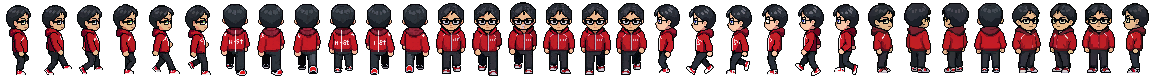
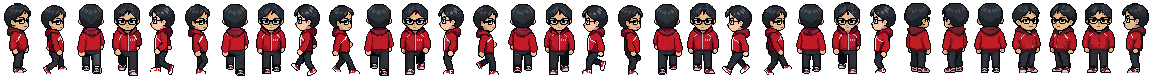
enemy can not move through wall

Changed region(s): [[0.0, 0.0256, 0.7799, 0.9744]]

diff --git a/core/src/main/java/hust/adventure/entities/enemies/Enemy.java b/core/src/main/java/hust/adventure/entities/enemies/Enemy.java
@@ -165,6 +165,9 @@ public class Enemy extends Character {
      */
     @Override
     public void setX(final float x) {
+        if (checkWallCollisions && collisionManager != null && !collisionManager.canMove(this, x, getY())) {
+            return;
+        }
         super.setX(x);
     }
 
@@ -175,6 +178,9 @@ public class Enemy extends Character {
      */
     @Override
     public void setY(final float y) {
+        if (checkWallCollisions && collisionManager != null && !collisionManager.canMove(this, getX(), y)) {
+            return;
+        }
         super.setY(y);
     }
 

diff --git a/docs/CONVENTIONS.md b/docs/CONVENTIONS.md
@@ -180,7 +180,7 @@ public class HUD {
 * **SRP Behavior Segregation**: `AIBehavior` (movement), `AttackBehavior` (attacks), and `DeathBehavior` (death logic) are injected via `BehaviorRegistry` into `Enemy`. `Enemy` does not shadow parent `Character.movementBehavior`.
 * **Decoupled Visual Overlays via Capability Interfaces**: Visual indicators or telegraph overlays for behavior logic must be decoupled from core entity models (e.g., `Enemy`). Expose behavioral overlay properties (such as coordinates, active flags, and timers) through domain capability interfaces (e.g., `TelegraphedBehavior` extending `AIBehavior`). The presentation layer (`GameRenderer`) can check for this capability interface on the active behavior to render overlays polymorphically without polluting the entity class or using concrete class casting.
 * **Mob Speed Control**: Mobs retrieve speed dynamically using `enemy.getSpeed()`. Do not store speed parameters in AI constructors.
-* **Movement Optimization (Wall Bypass)**: Mob behaviors like `SimpleSwarmBehavior` and `FleeBehavior` edit coordinates directly without passing through `CollisionManager.canMove()` to conserve CPU cycles.
+* **Mob Wall Collisions**: Mob coordinates are updated via `setX` and `setY`, which automatically perform wall collision checks using `CollisionManager.canMove()` (when `checkWallCollisions` is enabled) to prevent enemies from passing through terrain, ensuring unified and simple collision enforcement.
 * **Weapon Damage Output**: All weapon classes must calculate damage using `getEffectiveDamage()` instead of `getBaseDamage()` to automatically integrate player power multipliers and global multipliers.
 * **Zero Hardcoding in Debug Menu & Transitions**: Options are loaded dynamically. Spawn scripts must use literal string configuration IDs matching JSON configurations (e.g., `"null_pointer"`). Level behaviors must not hardcode target map paths or spawn coordinates for transitions; they must look up target `LevelConfig` objects by Level ID from the `LevelDataLoader` (Single Source of Truth).
 * **Decoupled Hitbox & Sprite**: `MapObject` separates visual sprite dimensions (`width`, `height`) and physical collision boundaries (`hitboxWidth`, `hitboxHeight`). Always use `getHitboxWidth()` and `getHitboxHeight()` for collision detection, movement boundaries, and spatial hashing, keeping `width` and `height` solely for sprite drawing.

diff --git a/docs/TECH_STACK.md b/docs/TECH_STACK.md
@@ -97,7 +97,7 @@ Technical specs, library versions, build structures, and architecture of Hust Ad
     * *Decoupled Hitbox & Sprite*: Visual sprite dimensions (`width`, `height`) are decoupled from physical hitbox/collision boundaries (`hitboxWidth`, `hitboxHeight`). Collision detection, boundary checks, and spatial grid hashing use hitbox sizes, allowing fine-grained collision boundaries (e.g. 32x32 player hitbox on 50x50 sprite). Defaults to sprite size if hitbox size is not specified.
     * *Static vs Dynamic Grid*: `staticGrid` (walls, hashed once during map load) is separate from `dynamicGrid` (moving entities, rebuilt every frame) to optimize performance.
     * *Zero Allocation*: Grid cell arrays (`Array<Collider>`) are pooled.
-    * *Wall Bypass*: All Enemy entities now bypass `CollisionManager.canMove()` wall collision checks during position updates (`setX`/`setY`) to freely pass through terrain, preventing getting stuck and optimizing navigation. Group behaviors (`SimpleSwarmBehavior`, `FleeBehavior`) also benefit from this zero-collision logic.
+    * *Wall Collision Checks*: All Enemy entities respect `CollisionManager.canMove()` wall collision checks during position updates (`setX`/`setY`) to prevent walking through terrain/obstacles. The `checkWallCollisions` flag allows selectively bypassing checks during spawn initialization or boundary clamping.
   * **Tiled Map Loading (`WorldManager`)**:
     * Finds collision layers via map properties (`collisionLayer`) or layer properties (`collision`/`isCollision`). Fallback order: `"collision"`, `"Border"`, `"Object Layer 1"`.
     * Classifies map layers (background vs foreground) via `classifyLayers()`.

diff --git a/docs/PROJECT_MAP.md b/docs/PROJECT_MAP.md
@@ -115,7 +115,7 @@ sequenceDiagram
 
 ### Key Loop Details:
 1. **Death Trigger**: When HP drops to `<= 0` in `PlayerStats`, `PLAYER_DIED` event fires. `PlayScreen` transitions to `GameOverScreen` with a fade-out.
-2. **AI Execution**: `EntityManager.update()` processes all Mobs. `Enemy` scale time delta with `progressContext.getEnemyTimeScale()`, calculates movement via `AIBehavior`, evaluates `AttackBehavior`, and clamps bounds. *(All enemy mobs bypass wall collisions during movement to allow free navigation)*.
+2. **AI Execution**: `EntityManager.update()` processes all Mobs. `Enemy` scale time delta with `progressContext.getEnemyTimeScale()`, calculates movement via `AIBehavior`, evaluates `AttackBehavior`, and clamps bounds. *(All enemy mobs respect wall collisions during movement updates)*.
 3. **Collision Phase**: `CollisionManager` evaluates Spatial Hashing grid to push entities out of walls and resolve bullet collisions. *(Enemies do not participate in wall push-out calculations but still register attacks)*.
 4. **Input Handling**: Done at the end of the frame via `handleInput()`. Key states flushed in `inputReader.update()`.
 
